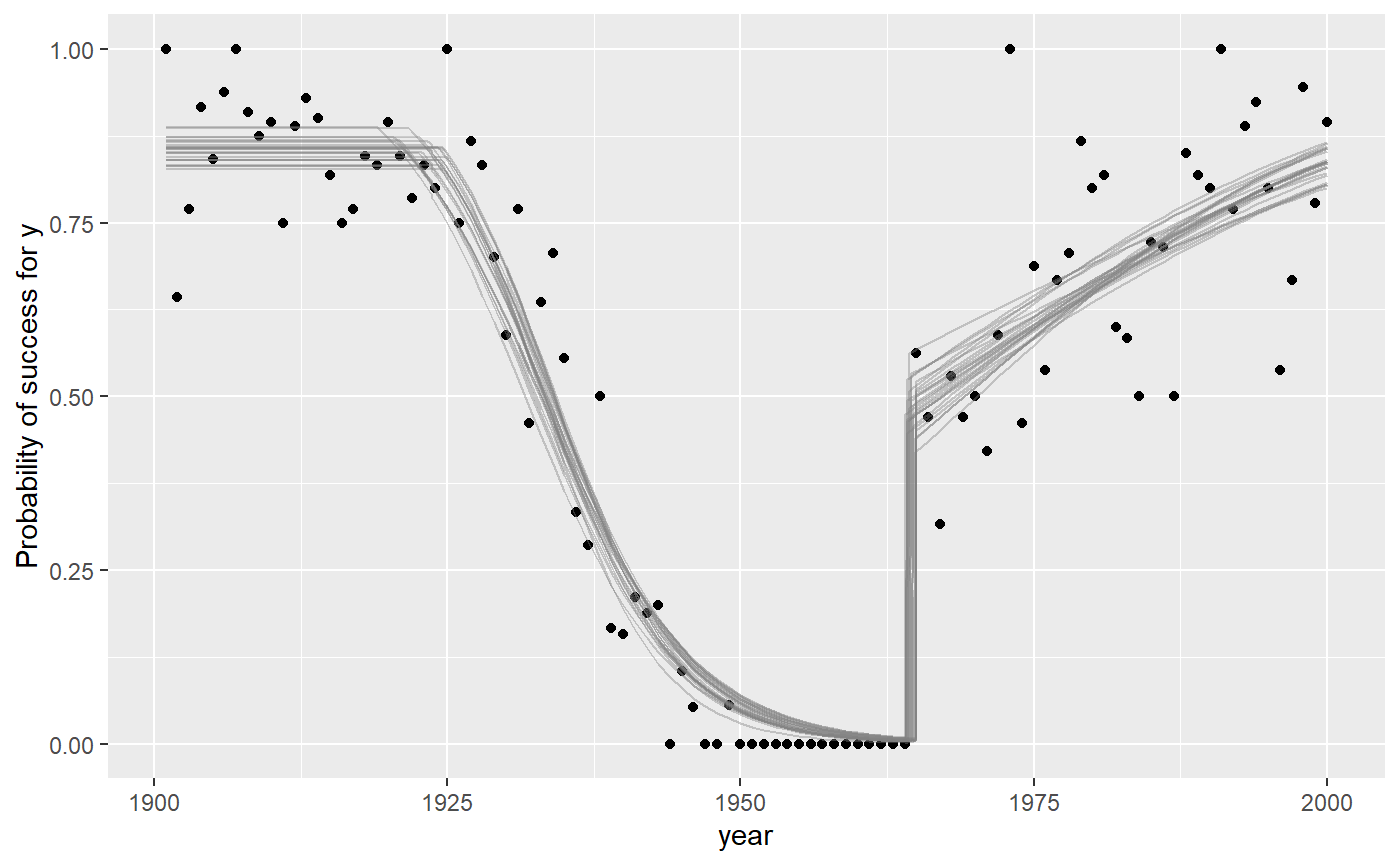
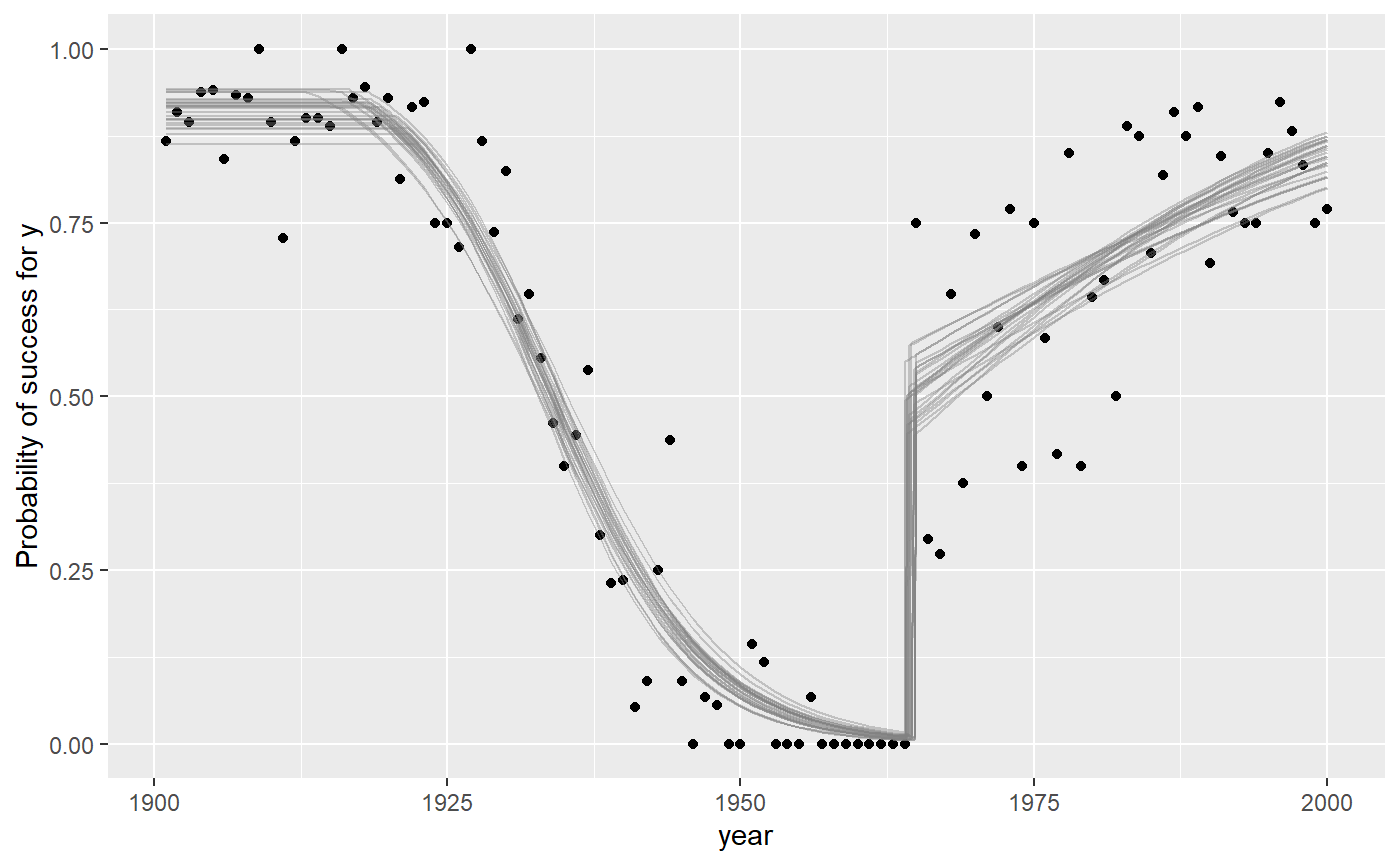
Update package title and description

diff --git a/docs/index.html b/docs/index.html
@@ -5,7 +5,7 @@
 <meta charset="utf-8">
 <meta http-equiv="X-UA-Compatible" content="IE=edge">
 <meta name="viewport" content="width=device-width, initial-scale=1.0">
-<title>Bayesian Multiple Change Point Inference • mcp</title>
+<title>mcp: Regression with Multiple Change Points • mcp</title>
 <!-- favicons --><link rel="icon" type="image/png" sizes="16x16" href="favicon-16x16.png">
 <link rel="icon" type="image/png" sizes="32x32" href="favicon-32x32.png">
 <link rel="apple-touch-icon" type="image/png" sizes="180x180" href="apple-touch-icon.png">
@@ -19,8 +19,8 @@
 <script src="pkgdown.js"></script><!-- docsearch --><script src="docsearch.js"></script><link rel="stylesheet" href="https://cdnjs.cloudflare.com/ajax/libs/docsearch.js/2.6.1/docsearch.min.css" integrity="sha256-QOSRU/ra9ActyXkIBbiIB144aDBdtvXBcNc3OTNuX/Q=" crossorigin="anonymous">
 <link href="docsearch.css" rel="stylesheet">
 <script src="https://cdnjs.cloudflare.com/ajax/libs/mark.js/8.11.1/jquery.mark.min.js" integrity="sha256-4HLtjeVgH0eIB3aZ9mLYF6E8oU5chNdjU6p6rrXpl9U=" crossorigin="anonymous"></script><link href="extra.css" rel="stylesheet">
-<meta property="og:title" content="Bayesian Multiple Change Point Inference">
-<meta property="og:description" content="Flexible inference of Multiple Change Points (MCP) between Hierarchical Generalized Linear Time-Series Segments - and the parameters in those segments.">
+<meta property="og:title" content="mcp: Regression with Multiple Change Points">
+<meta property="og:description" content="Flexible and informed regression with Multiple Change Points (MCP) between Hierarchical Generalized Linear Time-Series Segments.">
 <meta property="og:image" content="https://lindeloev.github.io/mcp/logo.png">
 <meta name="twitter:card" content="summary">
 <!-- mathjax --><script src="https://cdnjs.cloudflare.com/ajax/libs/mathjax/2.7.5/MathJax.js" integrity="sha256-nvJJv9wWKEm88qvoQl9ekL2J+k/RWIsaSScxxlsrv8k=" crossorigin="anonymous"></script><script src="https://cdnjs.cloudflare.com/ajax/libs/mathjax/2.7.5/config/TeX-AMS-MML_HTMLorMML.js" integrity="sha256-84DKXVJXs0/F8OTMzX4UR909+jtl4G7SPypPavF+GfA=" crossorigin="anonymous"></script><!--[if lt IE 9]>
@@ -152,11 +152,11 @@
       </header><div class="row">
   <div class="contents col-md-9">
 
-<div id="mcp-multiple-change-point-regression" class="section level1">
+<div id="mcp-regression-with-multiple-change-points" class="section level1">
 <div class="page-header"><h1 class="hasAnchor">
-<a href="#mcp-multiple-change-point-regression" class="anchor"></a>mcp: Multiple Change Point regression</h1></div>
+<a href="#mcp-regression-with-multiple-change-points" class="anchor"></a>mcp: Regression with Multiple Change Points</h1></div>
 
-<p>Infer Multiple Change Points (MCP) between Generalized Linear Segments using Bayesian hierarchical regression. <code>mcp</code> aims to provide maximum flexibility for analyses with a priori knowledge about the number of change points and the form of the segments in between.</p>
+<p><code>mcp</code> does regression with one or Multiple Change Points (MCP) between Generalized and hierarchical Linear Segments using Bayesian inference. <code>mcp</code> aims to provide maximum flexibility for analyses with a priori knowledge about the number of change points and the form of the segments in between.</p>
 <p>Change points are also called <strong>switch points</strong>, <strong>break points</strong>, <strong>broken line</strong> regression, <strong>broken stick</strong> regression, <strong>bilinear</strong> regression, <strong>piecewise linear regression</strong>, <strong>local linear regression</strong>, <strong>segmented regression</strong>, and (performance) <strong>discontinuity</strong> models. <code>mcp</code> aims to be be useful for all of them. See how <code>mcp</code> compares to <a href="https://lindeloev.github.io/mcp/articles/packages.html">other R packages</a>.</p>
 <p>Under the hood, <code>mcp</code> takes a formula-representation of linear segments and turns it into <a href="https://sourceforge.net/projects/mcmc-jags/">JAGS</a> code. <code>mcp</code> leverages the power of <code>tidybayes</code>, <code>bayesplot</code>, <code>coda</code>, and <code>loo</code> to make change point analysis easy and powerful.</p>
 </div>

diff --git a/docs/articles/binomial.html b/docs/articles/binomial.html
@@ -223,15 +223,15 @@
 <pre><code>## # A tibble: 100 x 3
 ##     year     N     y
 ##    &lt;int&gt; &lt;int&gt; &lt;int&gt;
-##  1  1901    14    14
-##  2  1902    14     9
-##  3  1903    13    10
-##  4  1904    12    11
-##  5  1905    19    16
-##  6  1906    16    15
-##  7  1907    19    19
-##  8  1908    11    10
-##  9  1909    16    14
+##  1  1901    15    13
+##  2  1902    11    10
+##  3  1903    19    17
+##  4  1904    16    15
+##  5  1905    17    16
+##  6  1906    19    16
+##  7  1907    15    14
+##  8  1908    14    13
+##  9  1909    13    13
 ## 10  1910    19    17
 ## # ... with 90 more rows</code></pre>
 <p>Visually:</p>
@@ -253,13 +253,13 @@
 ##   3: y | trials(N) ~ 1 ~ 1 + year
 ## 
 ## Population-level parameters:
-##    name      mean     lower     upper Rhat n.eff    ts_se
-##    cp_1 1922.9441 1919.7785 1925.9199 1.01   566 4.03e+01
-##    cp_2 1964.4994 1964.0058 1964.9538 1.00  5135 1.43e-01
-##   int_1    1.8027    1.4913    2.1276 1.00  1167 2.03e-01
-##   int_3   -0.0729   -0.4102    0.2465 1.00  1036 2.54e-01
-##  year_2   -0.1744   -0.2014   -0.1482 1.01   956 1.71e-03
-##  year_3    0.0481    0.0309    0.0649 1.00  1050 7.14e-04</code></pre>
+##    name      mean     lower    upper Rhat n.eff    ts_se
+##    cp_1 1919.5935 1915.7397 1923.181 1.00   434 7.82e+01
+##    cp_2 1964.4976 1964.0156 1964.965 1.00  4753 1.68e-01
+##   int_1    2.2730    1.8483    2.697 1.00   603 7.00e-01
+##   int_3    0.0532   -0.3095    0.405 1.00  1041 2.89e-01
+##  year_2   -0.1583   -0.1807   -0.137 1.00   835 1.37e-03
+##  year_3    0.0478    0.0298    0.066 1.01  1014 7.74e-04</code></pre>
 <p><code>summary</code> uses 95% highest density intervals (HDI) by default, but you can change it using <code><a href="../reference/summary.mcpfit.html">summary(fit, width = 0.80)</a></code>. If you have <a href="../docs/articles/varying.html">varying effects</a>, use <code><a href="../reference/ranef.html">ranef(fit)</a></code> to see them.</p>
 <p>Plotting the fit confirms good fit to the data, and we see the discontinuities at the two change points:</p>
 <div class="sourceCode" id="cb11"><pre class="sourceCode r"><code class="sourceCode r"><a class="sourceLine" id="cb11-1" title="1"><span class="kw"><a href="../reference/plot.mcpfit.html">plot</a></span>(fit)</a></code></pre></div>

diff --git a/docs/articles/packages.html b/docs/articles/packages.html
@@ -209,7 +209,6 @@
 <div id="where-mcp-is-currently-inferior" class="section level1">
 <h1 class="hasAnchor">
 <a href="#where-mcp-is-currently-inferior" class="anchor"></a>Where mcp is (currently) inferior</h1>
-<p><code>mcp</code> is inferior with respect to:</p>
 <ul>
 <li>
 <em>Speed</em>: While <code>mcp</code> is reasonably fast for typical problems, mcmc sampling is slower than analytical and specialized solutions. For datasets &gt; 20.000 points and a complicated model, it may take <code>mcp</code> hours (but not days) to fit. See <a href="../articles/tips.html">tips and tricks</a> how to speed up <code>mcp</code>. Briefly, run in parallel and lower the number of iterations: (<code>mcp(..., cores = 4, iter = 1000, adapt = 400</code>).</li>
@@ -265,7 +264,7 @@
 <a class="sourceLine" id="cb4-2" title="2">                        <span class="kw"><a href="../reference/plot.mcpfit.html">plot</a></span>(fit_mcp, <span class="st">"dens_overlay"</span>, <span class="dt">pars =</span> <span class="kw"><a href="https://rdrr.io/r/base/c.html">c</a></span>(<span class="st">"cp_1"</span>, <span class="st">"cp_2"</span>)), </a>
 <a class="sourceLine" id="cb4-3" title="3">                        <span class="dt">ncol =</span> <span class="dv">2</span>)</a></code></pre></div>
 <p><img src="packages_files/figure-html/unnamed-chunk-4-1.png" width="700"></p>
-<p><code>mcp</code> takes around 10 seconds to fit this example, which is the slowest of all the packages considered here. You can bring that down to 4 seconds by running in parallel, using <code><a href="../reference/mcp.html">mcp(..., cores = 3)</a></code> or for the full session using <code><a href="https://rdrr.io/r/base/options.html">options(mc.cores = 3)</a></code>.</p>
+<p><code>mcp</code> takes around 6 seconds to fit this example, which is the slowest of all the packages considered here. You can bring that down to 2.5 seconds by running in parallel, using <code><a href="../reference/mcp.html">mcp(..., cores = 3)</a></code> or for the full session using <code><a href="https://rdrr.io/r/base/options.html">options(mc.cores = 3)</a></code>.</p>
 </div>
 <div id="envcpt" class="section level1">
 <h1 class="hasAnchor">

diff --git a/docs/reference/mcp.html b/docs/reference/mcp.html
@@ -235,8 +235,7 @@ data if you just want to get the priors (<code>fit$prior</code>), the JAGS code
   <span class='kw'>iter</span> <span class='kw'>=</span> <span class='fl'>3000</span>,
   <span class='kw'>adapt</span> <span class='kw'>=</span> <span class='fl'>1000</span>,
   <span class='kw'>inits</span> <span class='kw'>=</span> <span class='kw'>NULL</span>,
-  <span class='kw'>jags_explicit</span> <span class='kw'>=</span> <span class='kw'>NULL</span>,
-  <span class='no'>...</span>
+  <span class='kw'>jags_code</span> <span class='kw'>=</span> <span class='kw'>NULL</span>
 )</pre>
 
     <h2 class="hasAnchor" id="arguments"><a class="anchor" href="#arguments"></a>Arguments</h2>
@@ -335,13 +334,10 @@ if a model fails to converge. Read more in <code><a href='https://rdrr.io/pkg/rj
 Defaults to <code>NULL</code>, i.e., no inits.</p></td>
     </tr>
     <tr>
-      <th>jags_explicit</th>
-      <td><p>Pass JAGS code to <code>mcp</code> to use directly. Useful if
-you want to make small tweaks, but mostly used for the development of mcp.</p></td>
-    </tr>
-    <tr>
-      <th>...</th>
-      <td><p>Further parameters for <code><a href='https://rdrr.io/pkg/dclone/man/jags.fit.html'>jags.fit</a></code>.</p></td>
+      <th>jags_code</th>
+      <td><p>Pass JAGS code to <code>mcp</code> to use directly. This is useful if
+you want to tweak the code in <code>fit$jags_code</code> and run it within the <code>mcp</code>
+framework.</p></td>
     </tr>
     </table>
 

diff --git a/docs/articles/varying.html b/docs/articles/varying.html
@@ -225,16 +225,16 @@
 <pre><code>## # A tibble: 180 x 4
 ##        x id    id_numeric     y
 ##    &lt;dbl&gt; &lt;chr&gt;      &lt;dbl&gt; &lt;dbl&gt;
-##  1  37.0 Clark          3  21.1
-##  2  89.4 Clark          3  39.7
-##  3  61.7 Clark          3  29.6
-##  4  56.9 Clark          3  26.6
-##  5  76.6 Clark          3  34.0
-##  6  16.7 Clark          3  18.3
-##  7  64.5 Clark          3  26.8
-##  8  79.3 Clark          3  34.5
-##  9  94.4 Clark          3  45.0
-## 10  17.6 Clark          3  19.7
+##  1  31.0 Clark          3  18.3
+##  2  44.4 Clark          3  20.3
+##  3  46.9 Clark          3  24.2
+##  4  87.0 Clark          3  39.7
+##  5  96.6 Clark          3  47.7
+##  6  63.9 Clark          3  29.2
+##  7  12.7 Clark          3  16.6
+##  8  69.1 Clark          3  34.7
+##  9  97.7 Clark          3  47.1
+## 10  56.8 Clark          3  24.8
 ## # ... with 170 more rows</code></pre>
 <p>Here, we “translated” the <code>id</code> to an offset on the x-axis by multiplying with 10. We subtracted the mean to make the varying effects zero-centered around <code>cp_1</code>. The result:</p>
 <div class="sourceCode" id="cb6"><pre class="sourceCode r"><code class="sourceCode r"><a class="sourceLine" id="cb6-1" title="1"><span class="kw"><a href="https://rdrr.io/r/base/library.html">library</a></span>(ggplot2)</a>

diff --git a/docs/articles/formulas.html b/docs/articles/formulas.html
@@ -47,7 +47,7 @@
       </button>
       <span class="navbar-brand">
         <a class="navbar-link" href="../index.html">mcp</a>
-        <span class="version label label-default" data-toggle="tooltip" data-placement="bottom" title="Released version">0.1.0.9000</span>
+        <span class="version label label-default" data-toggle="tooltip" data-placement="bottom" title="Released version">0.2.0</span>
       </span>
     </div>
 
@@ -420,7 +420,7 @@
 ##         }
 ##     }
 ## }
-## &lt;environment: 0x000000001431d780&gt;</code></pre>
+## &lt;environment: 0x00000000142ea068&gt;</code></pre>
 </div>
 <div id="modeling-relative-slopes-and-intercepts" class="section level1">
 <h1 class="hasAnchor">

diff --git a/docs/articles/comparison.html b/docs/articles/comparison.html
@@ -47,7 +47,7 @@
       </button>
       <span class="navbar-brand">
         <a class="navbar-link" href="../index.html">mcp</a>
-        <span class="version label label-default" data-toggle="tooltip" data-placement="bottom" title="Released version">0.1.0.9000</span>
+        <span class="version label label-default" data-toggle="tooltip" data-placement="bottom" title="Released version">0.2.0</span>
       </span>
     </div>
 

diff --git a/docs/articles/priors.html b/docs/articles/priors.html
@@ -47,7 +47,7 @@
       </button>
       <span class="navbar-brand">
         <a class="navbar-link" href="../index.html">mcp</a>
-        <span class="version label label-default" data-toggle="tooltip" data-placement="bottom" title="Released version">0.1.0.9000</span>
+        <span class="version label label-default" data-toggle="tooltip" data-placement="bottom" title="Released version">0.2.0</span>
       </span>
     </div>
 

diff --git a/docs/articles/tips.html b/docs/articles/tips.html
@@ -47,7 +47,7 @@
       </button>
       <span class="navbar-brand">
         <a class="navbar-link" href="../index.html">mcp</a>
-        <span class="version label label-default" data-toggle="tooltip" data-placement="bottom" title="Released version">0.1.0.9000</span>
+        <span class="version label label-default" data-toggle="tooltip" data-placement="bottom" title="Released version">0.2.0</span>
       </span>
     </div>
 

diff --git a/README.md b/README.md
@@ -1,11 +1,11 @@
-# mcp: Multiple Change Point regression
+# mcp: Regression with Multiple Change Points
 
 [![Travis-CI status](https://travis-ci.org/lindeloev/mcp.svg?branch=master)](https://travis-ci.org/lindeloev/mcp)
 [![Coveralls status](https://codecov.io/gh/lindeloev/mcp/branch/master/graph/badge.svg)](https://coveralls.io/r/lindeloev/mcp)
 [![CRAN status](https://www.r-pkg.org/badges/version/mcp)](https://CRAN.R-project.org/package=mcp)
 
 
-Infer Multiple Change Points (MCP) between Generalized Linear Segments using Bayesian hierarchical regression. `mcp` aims to provide maximum flexibility for analyses with a priori knowledge about the number of change points and the form of the segments in between.
+`mcp` does regression with one or Multiple Change Points (MCP) between Generalized and hierarchical Linear Segments using Bayesian inference. `mcp` aims to provide maximum flexibility for analyses with a priori knowledge about the number of change points and the form of the segments in between.
 
 Change points are also called **switch points**, **break points**, **broken line** regression, **broken stick** regression, **bilinear** regression, **piecewise linear regression**, **local linear regression**, **segmented regression**, and (performance) **discontinuity** models. `mcp` aims to be be useful for all of them. See how `mcp` compares to [other R packages](https://lindeloev.github.io/mcp/articles/packages.html).
 
